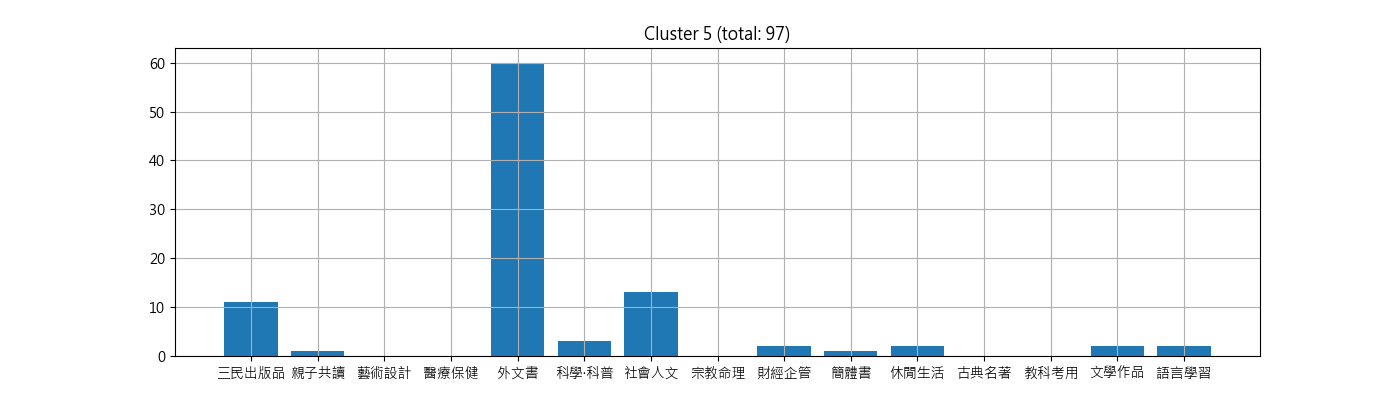
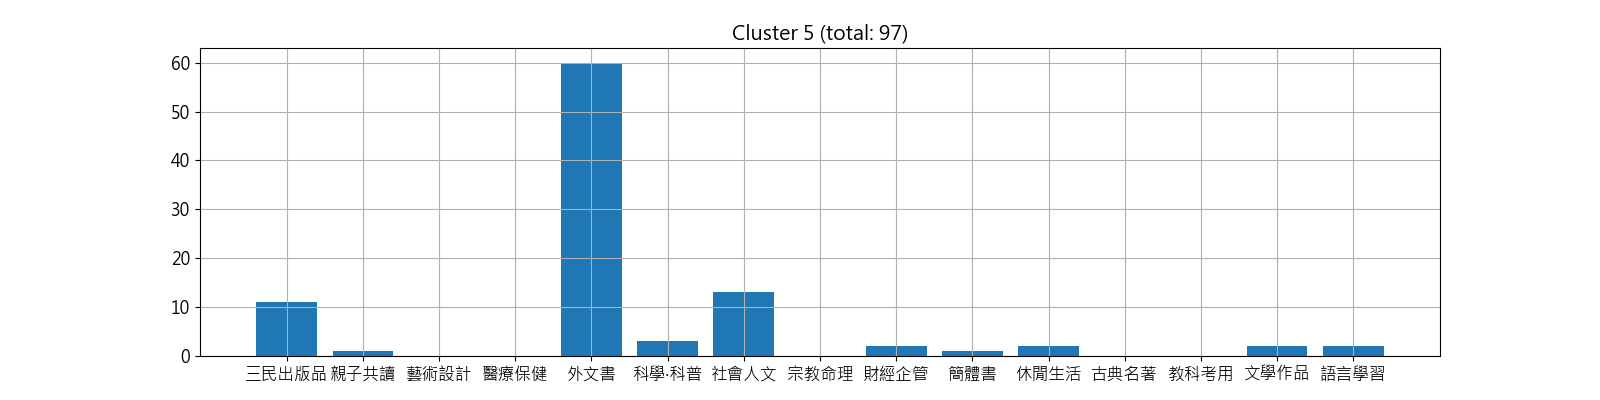
update plot

diff --git a/src/lib/clustering_algo.py b/src/lib/clustering_algo.py
@@ -168,11 +168,11 @@ def plot_category_analysis():
         category_counts[info["cluster"]][info["category"]] += 1
     
     for cluster_id, categories_count in category_counts.items():
-        plt.figure(figsize=(14, 4))
+        plt.figure(figsize=(16, 4))
         plt.bar(categories_count.keys(), categories_count.values())
         plt.title(f"Cluster {cluster_id} (total: {sum(categories_count.values())})")
         plt.grid(True)
-        plt.savefig(f"./data/img/category_analysis_cluster{cluster_id}.png")
+        plt.savefig(f"./data/img/category_analysis_cluster{cluster_id}")
         plt.clf()
 
 def _test():
@@ -189,23 +189,25 @@ def _test():
     # Chinese font setting
     plt.rcParams['font.sans-serif'] = ['Microsoft JhengHei'] 
     plt.rcParams['axes.unicode_minus'] = False
-    # matplotlib.rcParams.update({'font.size': 22})
 
     # -- plot "cluster_num.png"
+    matplotlib.rcParams.update({'font.size': 22})
     # plot_cluster_num()
 
     # -- plot "clustering_analysis.png"
+    # matplotlib.rcParams.update({'font.size': 14})
     # cols = ["price", "pages", "published_date"]             # consider all features
     # plot_clustering_analysis(cols, ["價錢", "頁數", "時間"])
 
-    # cols = ["price", "pages"]                               # consider only two features
-    # plot_clustering_analysis(cols, ["價錢", "頁數"], f"./data/img/result_only_two_features ({', '.join(cols)})")
+    matplotlib.rcParams.update({'font.size': 13})
+    cols = ["price", "pages"]                               # consider only two features
+    plot_clustering_analysis(cols, ["價錢", "頁數"], f"./data/img/result_only_two_features ({', '.join(cols)})")
 
-    # cols = ["price", "published_date"]                      # consider only two features
-    # plot_clustering_analysis(cols, ["頁數", "時間"], f"./data/img/result_only_two_features ({', '.join(cols)})")
+    cols = ["price", "published_date"]                      # consider only two features
+    plot_clustering_analysis(cols, ["頁數", "時間"], f"./data/img/result_only_two_features ({', '.join(cols)})")
 
-    # cols = ["pages", "published_date"]                      # consider only two features
-    # plot_clustering_analysis(cols, ["價錢", "時間"], f"./data/img/result_only_two_features ({', '.join(cols)})")
+    cols = ["pages", "published_date"]                      # consider only two features
+    plot_clustering_analysis(cols, ["價錢", "時間"], f"./data/img/result_only_two_features ({', '.join(cols)})")
 
     # -- plot "result.png"
     # cols = ["price", "pages", "published_date"]
@@ -214,7 +216,8 @@ def _test():
     # clustering(book_info, features, cols, save_result=False, display=True)
 
     # -- plot "category_analysis.png"
-    plot_category_analysis()
+    # matplotlib.rcParams.update({'font.size': 12})
+    # plot_category_analysis()
 
 if __name__ == "__main__":
     _test()
